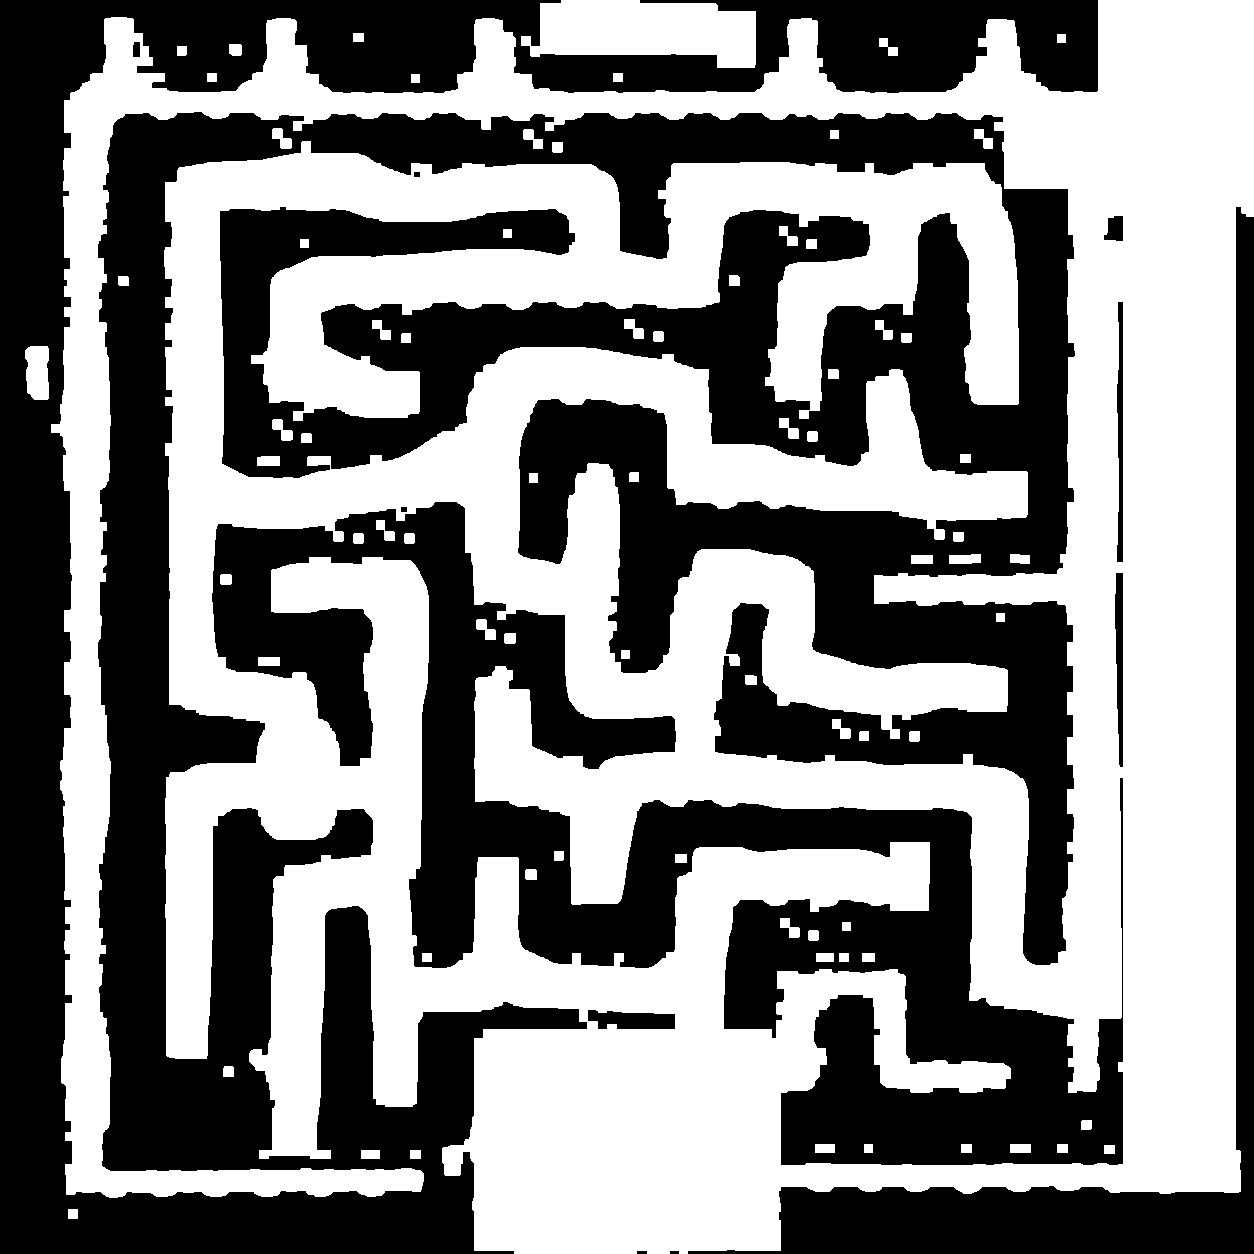
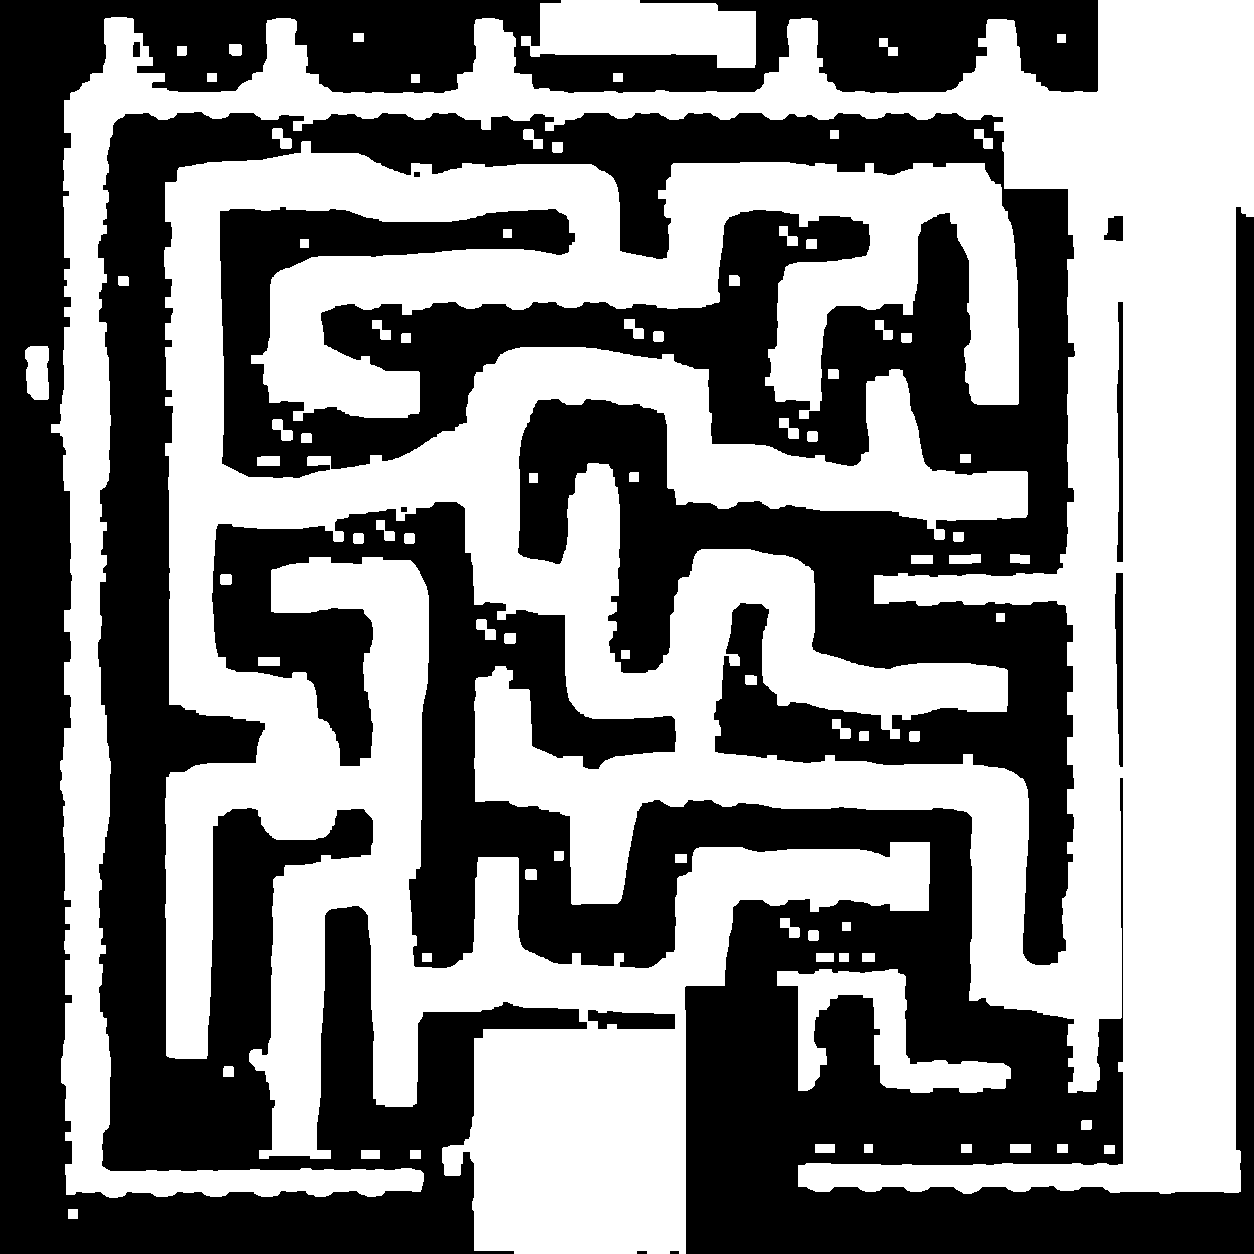
fix: corrige atalhos e navegação na v1.11.3

Changed region(s): [[0.5287, 0.7775, 0.6531, 1.0]]

diff --git a/index.html b/index.html
@@ -1,4 +1,4 @@
-<!doctype html><html lang="pt-BR"><head><meta charset="utf-8"><meta name="viewport" content="width=device-width,initial-scale=1"><title>Casa em Jogo — V1.11.2.1.1</title><link rel="stylesheet" href="style.css"></head><body>
+<!doctype html><html lang="pt-BR"><head><meta charset="utf-8"><meta name="viewport" content="width=device-width,initial-scale=1"><title>Casa em Jogo — V1.11.3.1.1</title><link rel="stylesheet" href="style.css"></head><body>
 <section id="start" class="screen active">
   <div class="landing-noise"></div>
   <div class="landing-glow glow-a"></div>
@@ -10,7 +10,7 @@
         <span class="live-dot"></span>
         <div><b>CASA EM JOGO</b><small>REALITY SIMULATION</small></div>
       </div>
-      <div class="landing-season">TEMPORADA 01 <span>•</span> V1.11.2.1</div>
+      <div class="landing-season">TEMPORADA 01 <span>•</span> V1.11.3.1</div>
     </header>
 
     <section class="landing-grid">
@@ -108,5 +108,5 @@
 <div id="feed"></div></aside></section>
 <div id="modal" class="modal hidden"><div class="panel"><i></i><button id="modalClose" class="modal-close">×</button><h2 id="modalTitle"></h2><p id="modalText"></p><div id="choices"></div></div></div>
 <div id="dialogue" class="dialogue hidden"><div id="portrait" class="portrait"><img id="portraitImg" src="assets/portraits/luna.png"></div><div class="dialogue-main"><div id="speaker" class="speaker">Luna</div><div id="dialogueText" class="dialogue-text"></div><div id="dialogueChoices" class="dialogue-choices"></div><div id="dialogueHint" class="dialogue-hint">ESPAÇO para continuar</div></div></div>
-<div id="npcBubble" class="npcbubble hidden"></div><div id="toast" class="toast hidden"></div><script>window.addEventListener("error",e=>console.error("[Casa em Jogo] erro global:",e.error||e.message));</script><script src="game.js"></script><div id="realityVersion" style="position:fixed;right:12px;bottom:8px;opacity:.45;font:11px monospace;pointer-events:none">LIVING HOUSE • V1.11.2.1.1</div>
+<div id="npcBubble" class="npcbubble hidden"></div><div id="toast" class="toast hidden"></div><script>window.addEventListener("error",e=>console.error("[Casa em Jogo] erro global:",e.error||e.message));</script><script src="game.js"></script><div id="realityVersion" style="position:fixed;right:12px;bottom:8px;opacity:.45;font:11px monospace;pointer-events:none">LIVING HOUSE • V1.11.3.1.1</div>
 </body></html>

diff --git a/game.js b/game.js
@@ -568,7 +568,7 @@ function start(){
    else addFeed("✅ Autoteste de mapa, NPCs e runtime concluído.");
  }catch(err){console.warn("Autoteste não bloqueante:",err);addFeed("⚠ Autoteste ignorado para não bloquear a partida.")}
  if(activeMission)addFeed(`🎯 MISSÃO SECRETA: ${activeMission.text}`);
- toast("CASA EM JOGO • V1.11.2");
+ toast("CASA EM JOGO • V1.11.3");
  try{startMusic()}catch(err){console.warn("Áudio indisponível:",err)}
  last=performance.now();
  // desenha uma vez imediatamente: personagem aparece mesmo antes do primeiro frame agendado
@@ -1195,7 +1195,7 @@ function runSelfTest(){
   if(!path.length)issues.push(`${p.name} sem rota em ${room}`)
  });
 
- console.log("[Casa em Jogo V1.11.2] autoteste:",issues.length?issues:"OK");
+ console.log("[Casa em Jogo V1.11.3] autoteste:",issues.length?issues:"OK");
  return issues
 }
 
@@ -3128,8 +3128,15 @@ function mazeCanvasToImage(x,y){
 function mazeImageToCanvas(x,y){
  return [x*C.width/(MAZE.map.naturalWidth||1536),y*C.height/(MAZE.map.naturalHeight||1024)]
 }
+
+function mazeIllegalSideArea(x,y){
+ return x>C.width*0.54705 && x<C.width*0.63636 &&
+        y>C.height*0.78628 && y<C.height*1.00000
+}
+
 function mazeWalkableCanvas(x,y,r=3){
  if(!Number.isFinite(x)||!Number.isFinite(y))return false;
+ if(mazeIllegalSideArea(x,y))return false;
  if(!MAZE.maskReady||!MAZE.maskData)return false;
 
  const [ix,iy]=mazeCanvasToImage(x,y);
